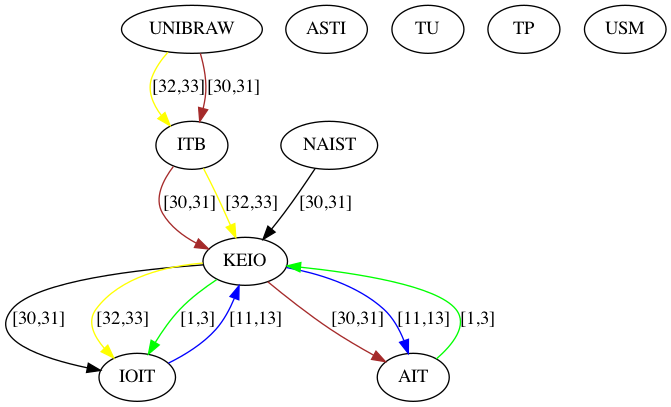
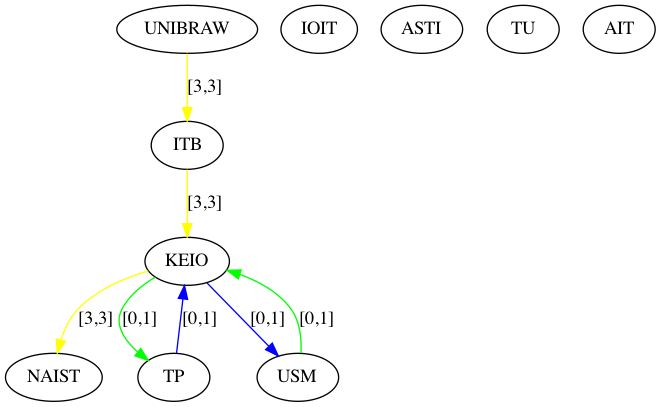
added limit

diff --git a/src/rsa/rsa_bdd.py b/src/rsa/rsa_bdd.py
@@ -479,7 +479,7 @@ class DemandPathBlock():
         
 
 class RoutingAndWavelengthBlock():
-    def __init__(self, demandPath : DemandPathBlock, base: BDD, constrained=False):
+    def __init__(self, demandPath : DemandPathBlock, base: BDD, limit=False):
 
         d_list = base.get_encoding_var_list(BDD.ET.DEMAND)
         c_list = base.get_encoding_var_list(BDD.ET.CHANNEL)
@@ -490,10 +490,17 @@ class RoutingAndWavelengthBlock():
             
             channel_subst = base.bdd.false
             
-            if constrained:
-                for w in range(min(base.wavelengths, i+1)):
-                    pass
-                    #wavelength_subst |= base.bdd.let(base.get_lam_vector(i),base.encode(BDD.ET.LAMBDA, w))
+            if limit:
+                max_index = max(sum([demand.size for j, demand in base.demand_vars.items() if i > j])-1, 0) 
+                legal_channels = [channel for channel in base.demand_to_channels[i] if channel[0] <= max_index]
+                channel_expr = base.bdd.false
+                
+                for channel in legal_channels:
+                    index = self.lookup_channel_index(channel, base)
+                    channel_expr |= base.encode(BDD.ET.CHANNEL, index)
+                
+                channel_subst = base.bdd.let(base.get_channel_vector(i),channel_expr)
+                      
             else:
                 channel_expr = base.bdd.false
                 for channel in base.demand_to_channels[i]:
@@ -549,7 +556,7 @@ class FullNoClashBlock():
             self.expr = self.expr & d_e
 
 class RSAProblem:
-    def __init__(self, G: MultiDiGraph, demands: dict[int, Demand], ordering: list[BDD.ET], demand_to_channels, unique_channels, overlapping_channels, group_by_edge_order = False, interleave_lambda_binary_vars=False, generics_first = False, wavelength_constrained=False, binary=True, reordering=True, paths=[]):
+    def __init__(self, G: MultiDiGraph, demands: dict[int, Demand], ordering: list[BDD.ET], demand_to_channels, unique_channels, overlapping_channels, group_by_edge_order = False, interleave_lambda_binary_vars=False, generics_first = False, limit=False, binary=True, reordering=True, paths=[]):
         s = time.perf_counter()
         self.base = BDD(G, demands, ordering, demand_to_channels, unique_channels, 
                         overlapping_channels, group_by_edge_order, interleave_lambda_binary_vars, generics_first, binary, reordering)
@@ -584,7 +591,7 @@ class RSAProblem:
         overlap = ChannelOverlap(self.base)
         noClash_expr = NoClashBlock(passes, overlap, self.base) 
         
-        rsa = RoutingAndWavelengthBlock(demandPath, self.base, constrained=wavelength_constrained)
+        rsa = RoutingAndWavelengthBlock(demandPath, self.base, limit=limit)
         
         e1 = time.perf_counter()
         print(e1 - s, e1-s, "Blocks",  flush=True)

diff --git a/src/rsa/rsa_draw.py b/src/rsa/rsa_draw.py
@@ -77,14 +77,14 @@ if __name__ == "__main__":
 
     demands = topology.get_gravity_demands(G, num_of_demands, seed)
     ordering = [BDD.ET.EDGE, BDD.ET.CHANNEL, BDD.ET.NODE, BDD.ET.DEMAND, BDD.ET.TARGET, BDD.ET.PATH, BDD.ET.SOURCE]
-    channels = topology.get_channels(demands, number_of_slots=2)
+    channels = topology.get_channels(demands, number_of_slots=50)
     
     sizes = {d : len(cs[0]) for d, cs in channels.items() if len(cs) > 0}
     print("sizes")
     print(sizes)
     overlapping, unique = topology.get_overlapping_channels(channels)
     
-    rsa = RSAProblem(G, demands, ordering, channels, unique, overlapping)
+    rsa = RSAProblem(G, demands, ordering, channels, unique, overlapping, limit=True)
 
     import time
     print(demands)
